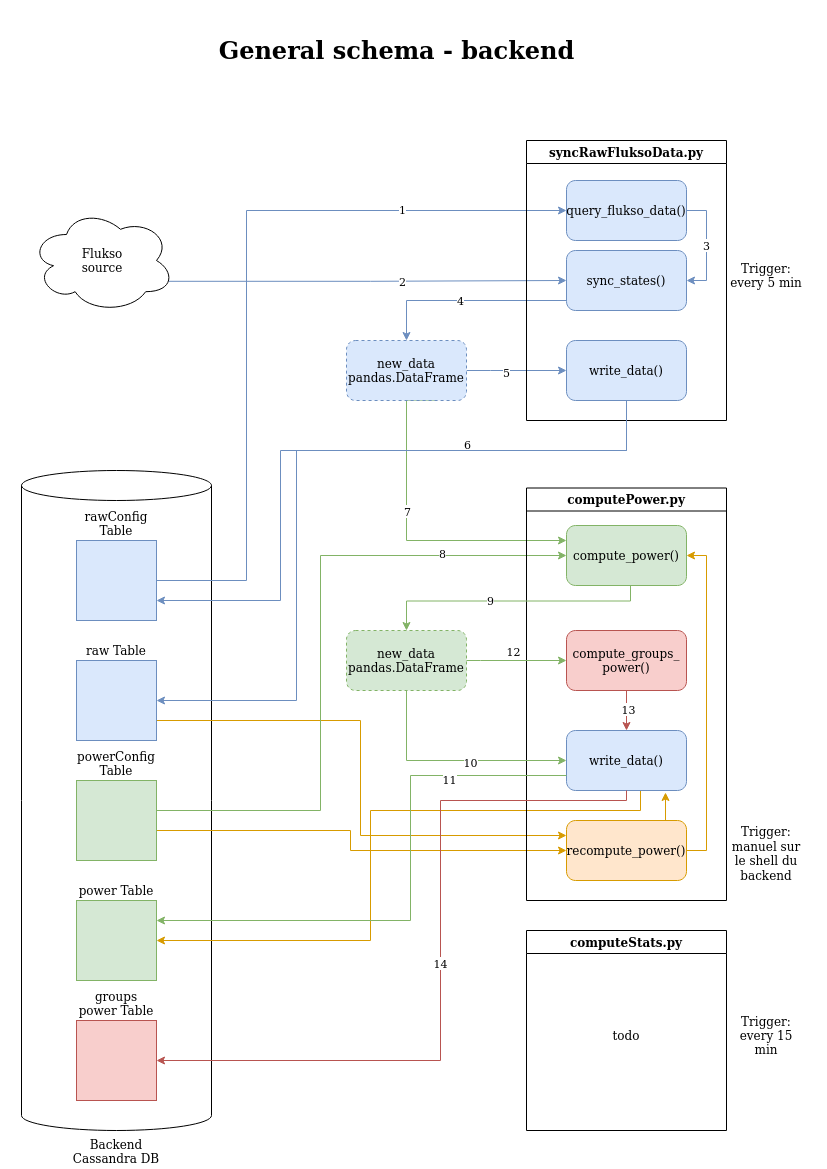
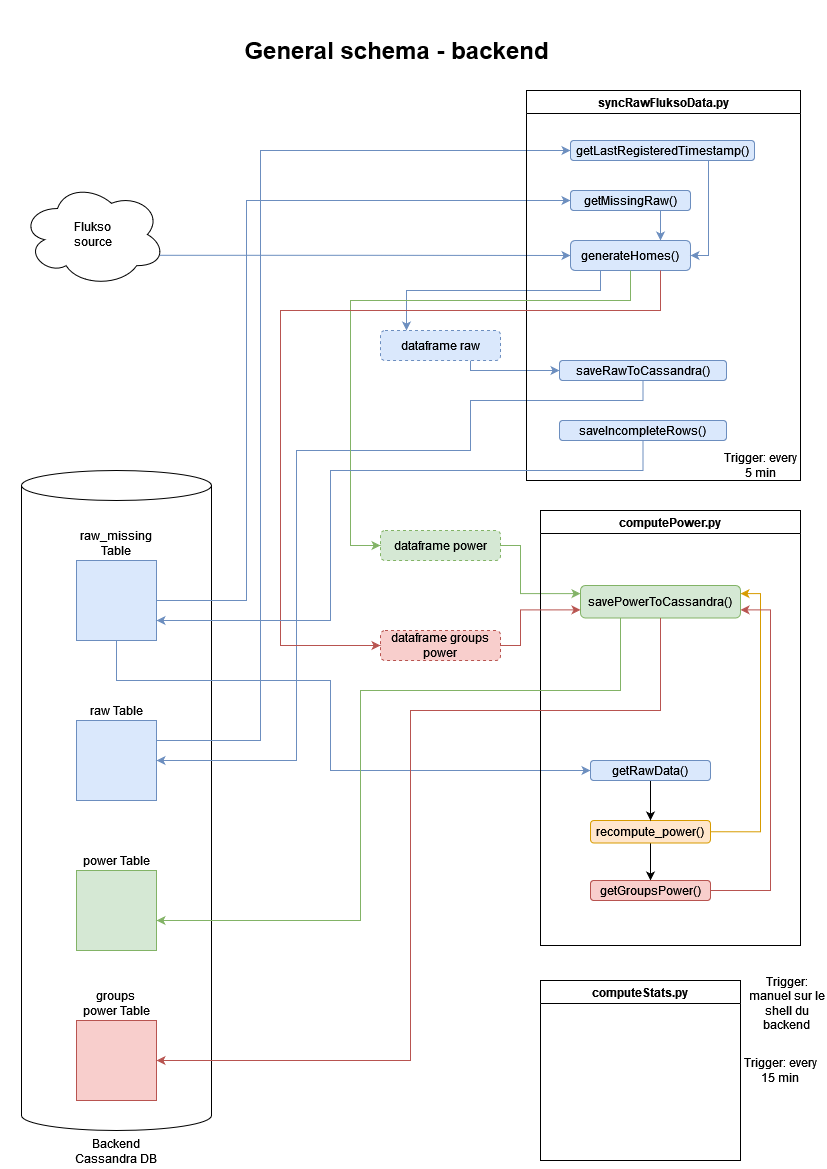
doc : update general backend schema

diff --git a/home.py b/home.py
@@ -21,15 +21,15 @@ class Home:
         self.home_id = home_id
         self.columns_names = self.getColumnsNames()
 
-        self.power_df, self.incomplete_power_df = self.createFluksoPowerDF()
+        self.raw_df, self.incomplete_raw_df = self.createFluksoRawDF()
         self.cons_prod_df = self.getConsumptionProductionDF()
 
-    def getPowerDF(self):
-        return self.power_df
+    def getRawDF(self):
+        return self.raw_df
 
     def getIncompletePowerDF(self):
         # with UTC timezones
-        return self.incomplete_power_df
+        return self.incomplete_raw_df
 
     def getConsProdDF(self):
         return self.cons_prod_df
@@ -41,7 +41,7 @@ class Home:
         self.home_id = hid
 
     def getNbFluksoSensors(self):
-        return len(self.power_df.columns)
+        return len(self.raw_df.columns)
 
     def getSince(self):
         return self.since
@@ -53,7 +53,7 @@ class Home:
         return self.to_timing
 
     def getColumnsTotal(self):
-        return self.power_df.sum(axis=0, numeric_only=True)
+        return self.raw_df.sum(axis=0, numeric_only=True)
 
     def getFluksoNames(self):
         """
@@ -72,7 +72,7 @@ class Home:
         fluksos_df = pd.DataFrame()
         flukso_names = self.getFluksoNames()
         for fid, phases in flukso_names.items():
-            fluksos_df["{}:{}".format(self.home_id, fid)] = self.power_df.loc[:, phases].sum(axis=1)
+            fluksos_df["{}:{}".format(self.home_id, fid)] = self.raw_df.loc[:, phases].sum(axis=1)
             j = 1
 
         return fluksos_df
@@ -110,7 +110,7 @@ class Home:
         return data_dfs
         
 
-    def createFluksoPowerDF(self):
+    def createFluksoRawDF(self):
         """
         create a dataframe where the colums are the phases of the Flukso and the rows are the
         data : 1 row = 1 timestamp = 1 power value
@@ -127,18 +127,18 @@ class Home:
         energy_df.index = [tps for tps in local_timestamps]
         print("nb timestamps : ", len(energy_df.index))
 
-        incomplete_power_df = energy_df[energy_df.isna().any(axis=1)]  # with CET timezones
+        incomplete_raw_df = energy_df[energy_df.isna().any(axis=1)]  # with CET timezones
         print("nb of nan: ", energy_df.isna().sum().sum()) # count nb of nan in the entire df
 
         energy_df.fillna(0, inplace=True)
         
-        power_df = energy2power(energy_df)  # cumulative energy to power conversion
+        raw_df = energy2power(energy_df)  # cumulative energy to power conversion
         del energy_df
 
-        power_df.fillna(0, inplace=True)
-        power_df = power_df.round(1)  # round with 2 decimals
+        raw_df.fillna(0, inplace=True)
+        raw_df = raw_df.round(1)  # round with 2 decimals
 
-        return power_df, incomplete_power_df
+        return raw_df, incomplete_raw_df
 
     def getConsumptionProductionDF(self):
         """ 
@@ -146,8 +146,8 @@ class Home:
         P_net = P_prod + P_cons
         cons_prod_df : timestamp, P_cons, P_prod, P_tot
         """
-        cons_prod_df = pd.DataFrame([[0, 0, 0] for _ in range(len(self.power_df))],
-                                    self.power_df.index,
+        cons_prod_df = pd.DataFrame([[0, 0, 0] for _ in range(len(self.raw_df))],
+                                    self.raw_df.index,
                                     ["P_cons", "P_prod", "P_tot"])
 
         for i, phase in enumerate(self.sensors_info.index):
@@ -156,9 +156,9 @@ class Home:
             p = self.sensors_info.loc[phase]["pro"]
             n = self.sensors_info.loc[phase]["net"]
 
-            # cons_prod_df["P_cons"] = cons_prod_df["P_cons"] + c * self.power_df[fluksoid_phase]
-            cons_prod_df["P_prod"] = cons_prod_df["P_prod"] + p * self.power_df[fluksoid_phase]
-            cons_prod_df["P_tot"] = cons_prod_df["P_tot"] + n * self.power_df[fluksoid_phase]
+            # cons_prod_df["P_cons"] = cons_prod_df["P_cons"] + c * self.raw_df[fluksoid_phase]
+            cons_prod_df["P_prod"] = cons_prod_df["P_prod"] + p * self.raw_df[fluksoid_phase]
+            cons_prod_df["P_tot"] = cons_prod_df["P_tot"] + n * self.raw_df[fluksoid_phase]
 
         cons_prod_df["P_cons"] = cons_prod_df["P_tot"] - cons_prod_df["P_prod"]
 
@@ -174,13 +174,13 @@ class Home:
 
         return new_col_names
 
-    def appendFluksoData(self, power_df, home_id):
-        # print(len(self.power_df), len(power_df))
+    def appendFluksoData(self, raw_df, home_id):
+        # print(len(self.raw_df), len(raw_df))
 
-        if not self.home_id in self.power_df.columns[0]:
-            self.power_df = self.power_df.rename(self.getColNamesWithID(self.power_df, self.home_id), axis=1)
-        power_df = power_df.rename(self.getColNamesWithID(power_df, home_id), axis=1)
-        self.power_df = self.power_df.join(power_df)
+        if not self.home_id in self.raw_df.columns[0]:
+            self.raw_df = self.raw_df.rename(self.getColNamesWithID(self.raw_df, self.home_id), axis=1)
+        raw_df = raw_df.rename(self.getColNamesWithID(raw_df, home_id), axis=1)
+        self.raw_df = self.raw_df.join(raw_df)
 
     def addConsProd(self, cons_prod_df):
         self.cons_prod_df = self.cons_prod_df.add(cons_prod_df, fill_value=0)

diff --git a/syncRawFluksoData.py b/syncRawFluksoData.py
@@ -38,7 +38,7 @@ warnings.simplefilter(action='ignore', category=FutureWarning)
 
 # ====================================================================================
 
-def getLastRegisteredTImestamp(session, ids):
+def getLastRegisteredTimestamp(session, ids):
 	print("Getting last timestamp...")
 	session = ptc.connectToCluster(CASSANDRA_KEYSPACE)
 
@@ -109,7 +109,7 @@ def generateHomes(session, sensors_info, since, since_timing, to_timing, home_id
 							since_timing, to_timing))
 		home = Home(sensors_info, since, since_timing, to_timing, hid, sensors)
 		homes[hid] = home
-		# print(home.getPowerDF().head(10))
+		# print(home.getRawDF().head(10))
 
 	return homes
 
@@ -121,7 +121,7 @@ def generateGroupedHomes(homes, groups):
 		home = copy.copy(homes[group[0]])
 		for j in range(1, len(group)):
 			print(homes[group[j]].getHomeID())
-			home.appendFluksoData(homes[group[j]].getPowerDF(), homes[group[j]].getHomeID())
+			home.appendFluksoData(homes[group[j]].getRawDF(), homes[group[j]].getHomeID())
 			home.addConsProd(homes[group[j]].getConsProdDF())
 		home.setHomeID("group_" + str(i + 1))
 
@@ -151,7 +151,7 @@ def getFluksoData(sensor_file, path=""):
 # ====================================================================================
 
 
-def updateIncompleteRows(to_timing, homes, table_name):
+def saveIncompleteRows(to_timing, homes, table_name):
 	"""
 	Save raw missing data to Cassandra cluster
 	-> incomplete rows (with null values)
@@ -194,31 +194,9 @@ def getColumnsNames(columns):
 	return res
 
 
-def saveRawDataToCassandraPerHome(homes, table_name):
+def saveRawToCassandra(homes, missing, table_name):
 	"""
-	Save raw flukso data to Cassandra cluster
-	"""
-	print("saving in Cassandra...")
-	session = ptc.connectToCluster(CASSANDRA_KEYSPACE)
-
-	for hid, home in homes.items():
-		print(hid)
-		power_df = home.getPowerDF()
-
-		col_names = ["home_id", "day", "ts"] + getColumnsNames(power_df.columns)
-		for timestamp, row in power_df.iterrows():
-			day = str(timestamp.date())
-			# save timestamp with CET local timezone, format : YY-MM-DD H:M:SZ
-			ts = str(timestamp)[:19] + "Z"  
-			values = [hid, day, ts] + list(row)
-			ptc.insert(session, CASSANDRA_KEYSPACE, table_name, col_names, values)
-
-	print("Successfully Saved raw data in Cassandra : table {}".format(table_name))
-
-
-def saveRawDataToCassandraPerSensor(homes, missing, table_name):
-	"""
-	Save raw flukso data to Cassandra cluster
+	Save raw flukso flukso data to Cassandra table
 	Save per sensor : 1 row = 1 sensor + 1 timestamp + 1 power value
 	"""
 	print("saving in Cassandra...")
@@ -226,7 +204,7 @@ def saveRawDataToCassandraPerSensor(homes, missing, table_name):
 
 	for hid, home in homes.items():
 		print(hid)
-		power_df = home.getPowerDF()
+		power_df = home.getRawDF()
 
 		col_names = ["sensor_id", "day", "ts", "power"]
 		sensors_ids = power_df.columns
@@ -237,7 +215,7 @@ def saveRawDataToCassandraPerSensor(homes, missing, table_name):
 			for i, sid in enumerate(sensors_ids):
 				miss = missing[hid][sid]["s"].loc[(missing[hid][sid]["s"]['ts'] == pd.Timestamp(str(timestamp)[:19]))].any().all()
 				is_earlier = isEarlier(timestamp, missing[hid][sid]["lts"])
-				print("{} => miss: {}, is earlier ? {}, value : {}".format(timestamp, miss, is_earlier, row[i]), end=" ")
+				# print("{} => miss: {}, is earlier ? {}, value : {}".format(timestamp, miss, is_earlier, row[i]), end=" ")
 				# if before last timestamp of the sensor & missing data OR after last timestamp (new data)
 				if (is_earlier and miss) or (not is_earlier):
 					print("insert ! ")
@@ -287,7 +265,7 @@ def main():
 	sensors, session = getFluksoData(UPDATED_SENSORS_FILE)
 	ids = getSensorsIds(sensors)
 
-	last_timestamp = getLastRegisteredTImestamp(cassandra_session, ids)
+	last_timestamp = getLastRegisteredTimestamp(cassandra_session, ids)
 	print("LAST TIMESTAMP : ", last_timestamp)
 
 	# homes_missing = getMissingRaw(cassandra_session, ids, "raw_missing", default_timing, now_local)
@@ -311,8 +289,8 @@ def main():
 	# =========================================================
 
 	# step 1 : save raw flukso data in cassandra
-	# saveRawDataToCassandraPerSensor(homes, homes_missing, "raw")
-	# updateIncompleteRows(to_timing, homes, "raw_missing")
+	# saveRawToCassandra(homes, homes_missing, "raw")
+	# saveIncompleteRows(to_timing, homes, "raw_missing")
 
 	# step 2 : save power flukso data in cassandra
 	# cp.savePowerDataToCassandra(homes, "power")

diff --git a/computePower.py b/computePower.py
@@ -47,8 +47,6 @@ def savePowerDataToCassandra(homes, table_name):
 def getRawData(session, since, ids, table_name):
 	""" 
 	get raw flukso data from cassandra since a certain amount of time
-	TODO : liste des dates en fonction du date_range 
-	-> pandas.date_range(sdate,edate-timedelta(days=1),freq='d')
 	"""
 	now = pd.Timestamp.now(tz="CET")
 	timing = setInitSeconds(getTiming(since, now))
